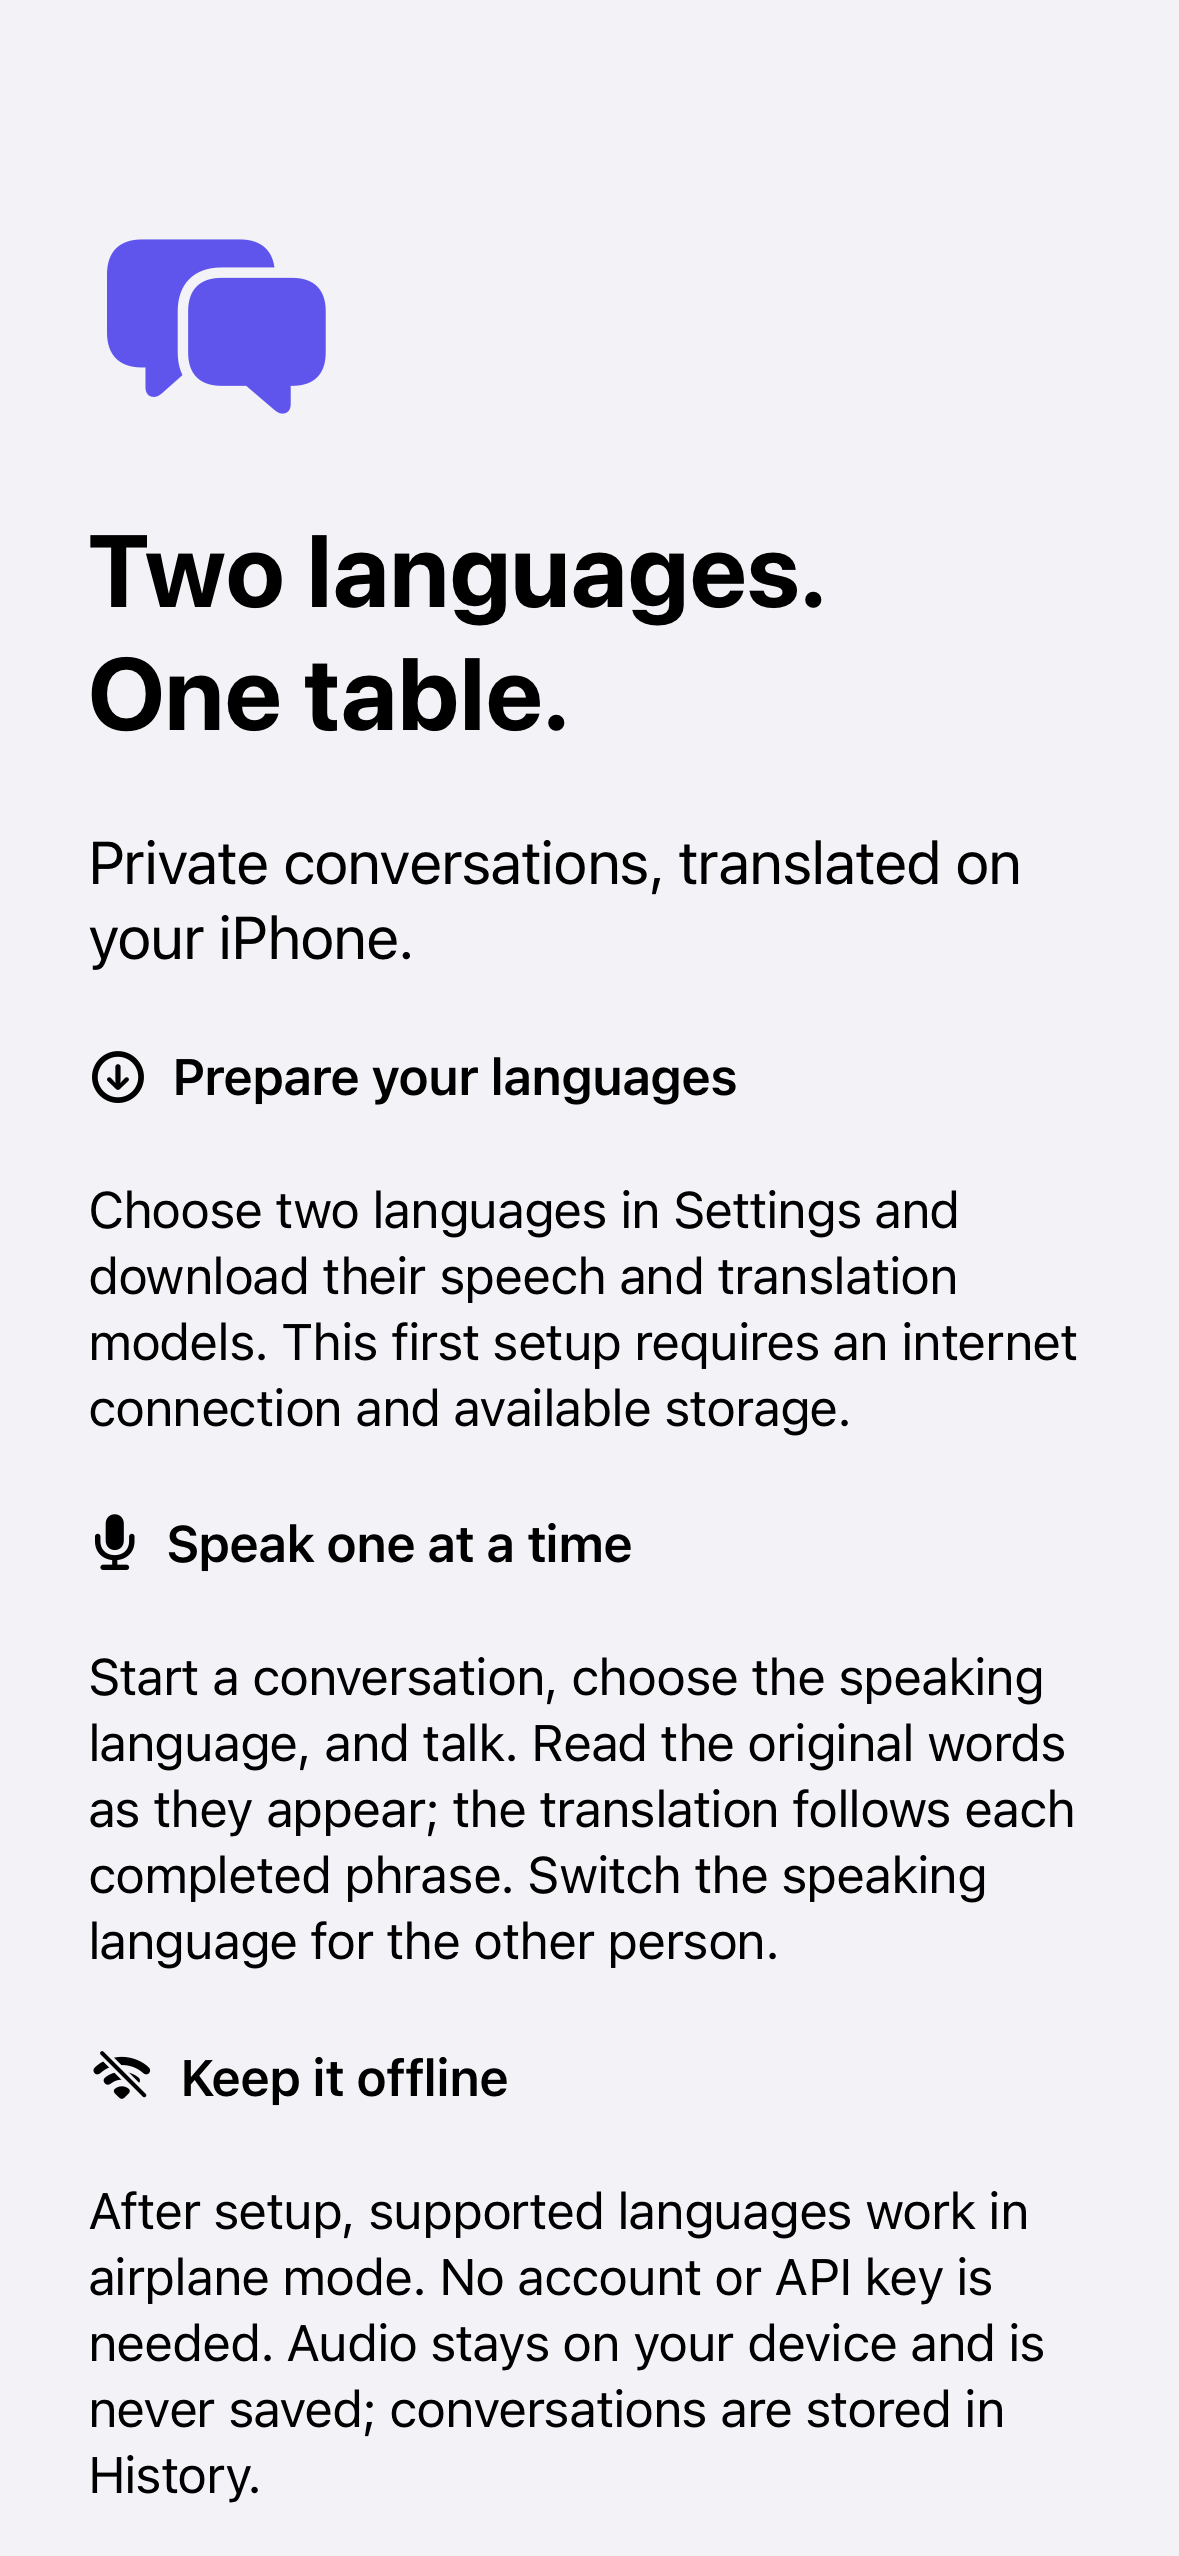
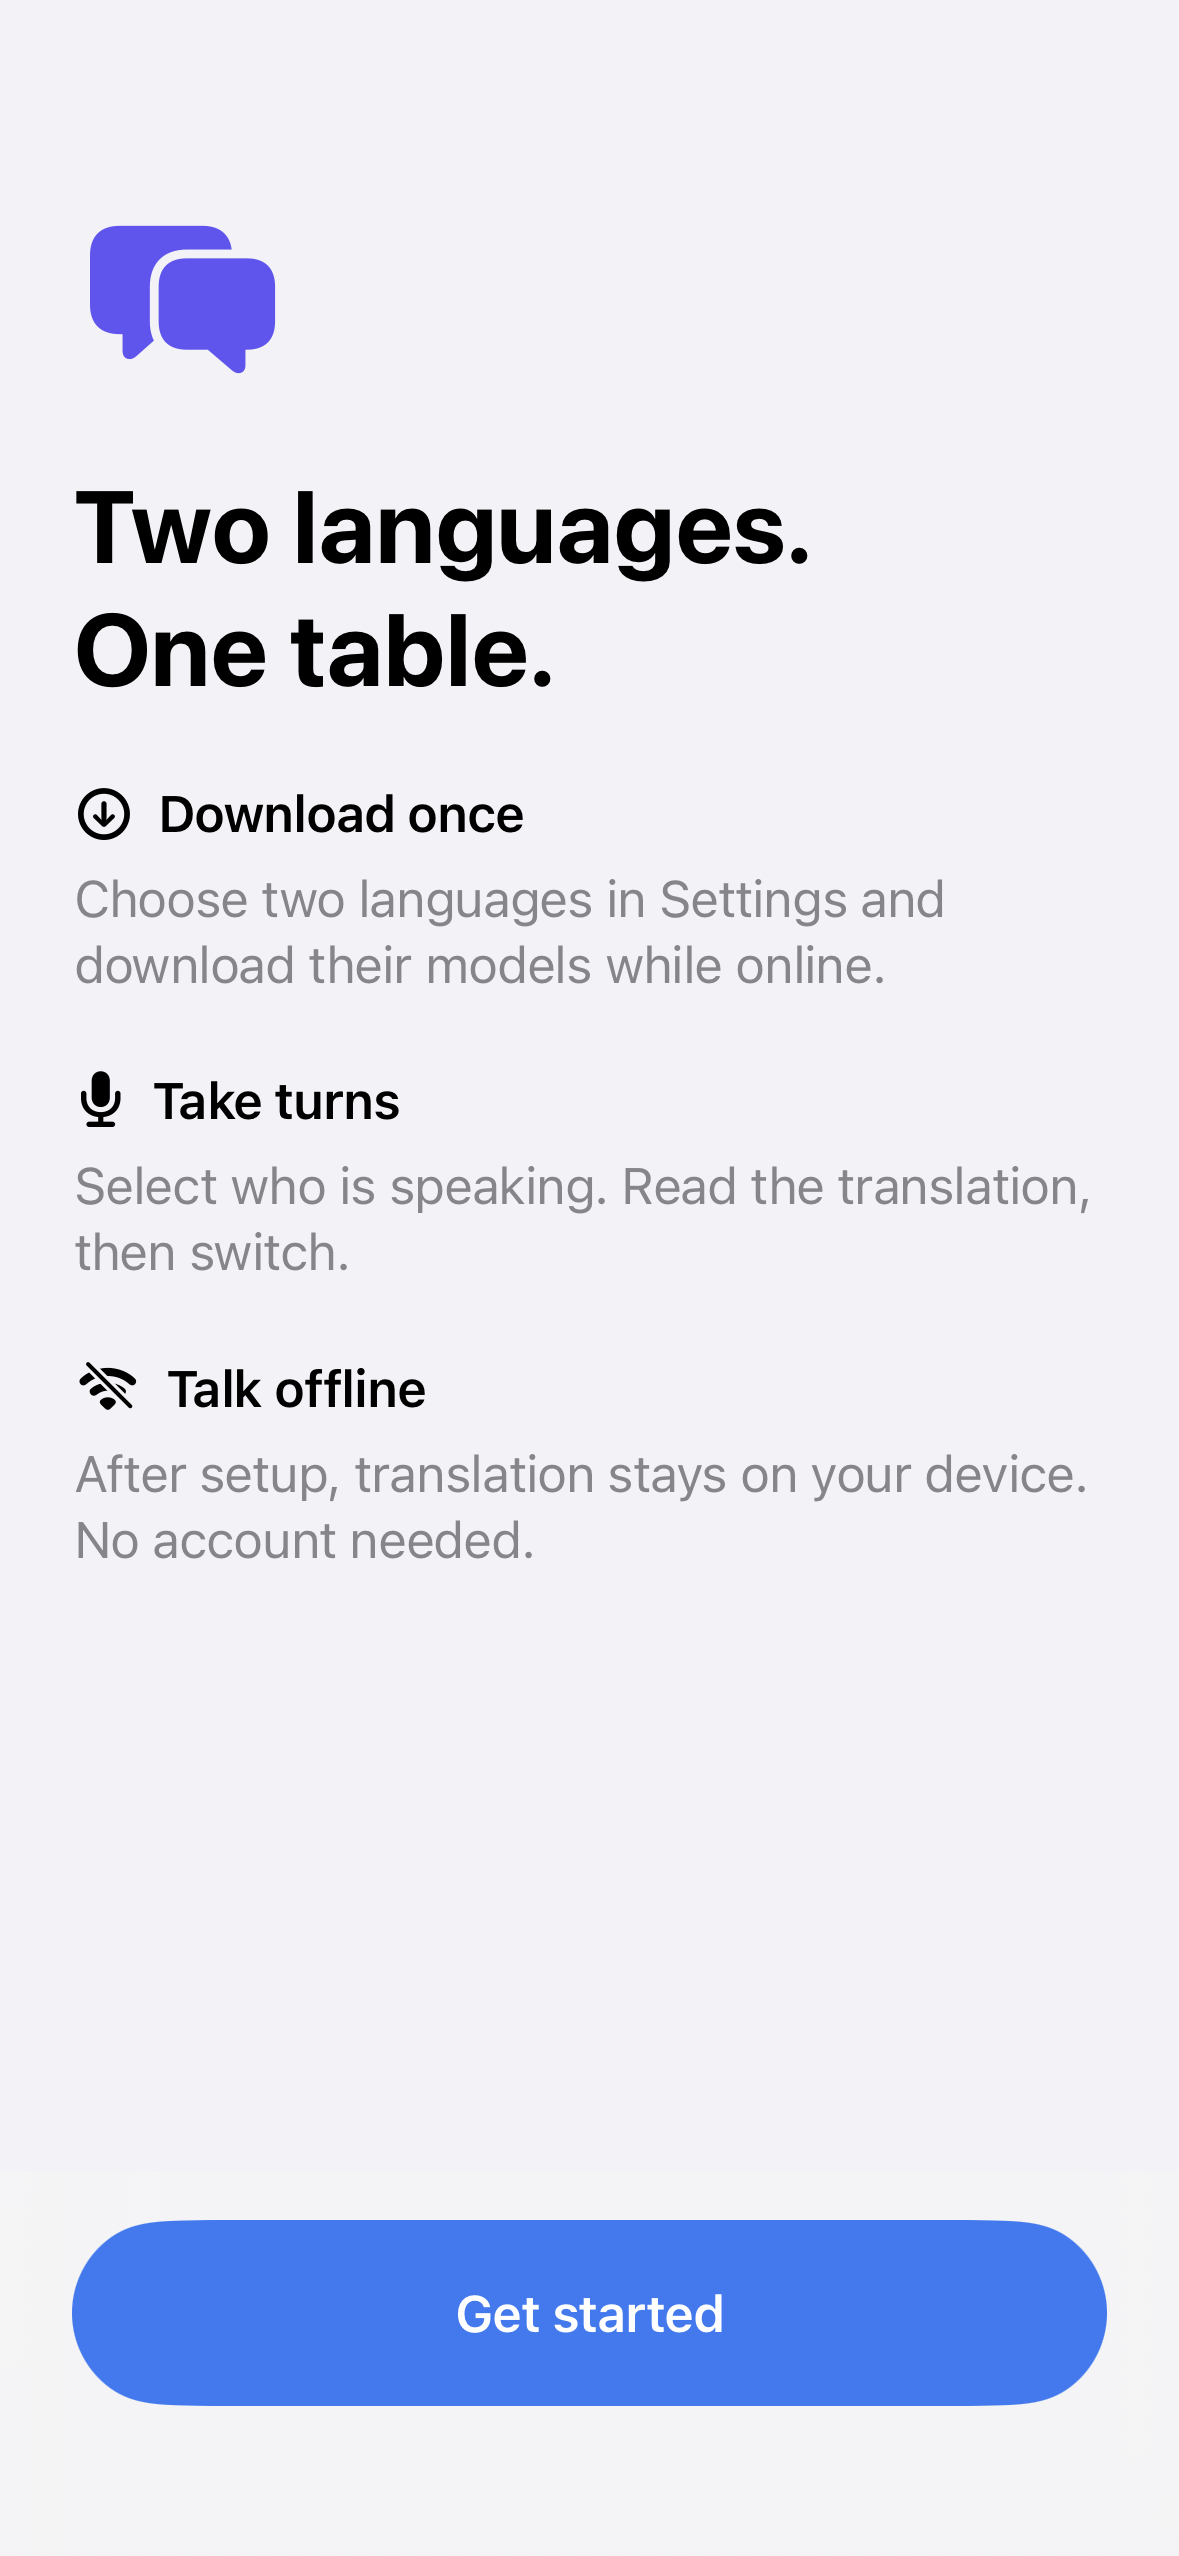
Keep onboarding action visible and simplify home controls

diff --git a/BabelTable/Views/OnboardingView.swift b/BabelTable/Views/OnboardingView.swift
@@ -3,29 +3,58 @@ import SwiftUI
 struct OnboardingView: View {
     @Environment(AppSettings.self) private var settings
     @Environment(\.dismiss) private var dismiss
+
     var body: some View {
         NavigationStack {
             ScrollView {
                 VStack(alignment: .leading, spacing: 24) {
-                    Image(systemName: "bubble.left.and.bubble.right.fill").font(.system(size: 52)).foregroundStyle(BabelTheme.primary)
-                    Text("Two languages. One table.").font(.largeTitle.bold())
-                    Text("Private conversations, translated on your iPhone.").font(.title3)
-                    Label("Prepare your languages", systemImage: "arrow.down.circle")
-                        .font(.headline)
-                    Text("Choose two languages in Settings and download their speech and translation models. This first setup requires an internet connection and available storage.")
-                    Label("Speak one at a time", systemImage: "mic.fill").font(.headline)
-                    Text("Start a conversation, choose the speaking language, and talk. Read the original words as they appear; the translation follows each completed phrase. Switch the speaking language for the other person.")
-                    Label("Keep it offline", systemImage: "wifi.slash").font(.headline)
-                    Text("After setup, supported languages work in airplane mode. No account or API key is needed. Audio stays on your device and is never saved; conversations are stored in History.")
-                    Button("Get started") {
-                        settings.hasCompletedOnboarding = true
-                        dismiss()
-                    }
-                    .buttonStyle(.borderedProminent).controlSize(.large)
+                    Image(systemName: "bubble.left.and.bubble.right.fill")
+                        .font(.system(size: 44))
+                        .foregroundStyle(BabelTheme.primary)
+                    Text("Two languages. One table.")
+                        .font(.largeTitle.bold())
+
+                    welcomeStep("Download once", systemImage: "arrow.down.circle",
+                                detail: "Choose two languages in Settings and download their models while online.")
+                    welcomeStep("Take turns", systemImage: "mic.fill",
+                                detail: "Select who is speaking. Read the translation, then switch.")
+                    welcomeStep("Talk offline", systemImage: "wifi.slash",
+                                detail: "After setup, translation stays on your device. No account needed.")
                 }
-                .padding(28).frame(maxWidth: 620).frame(maxWidth: .infinity)
+                .padding(24)
+                .frame(maxWidth: 620)
+                .frame(maxWidth: .infinity)
+            }
+            .safeAreaInset(edge: .bottom, spacing: 0) {
+                Button {
+                    settings.hasCompletedOnboarding = true
+                    dismiss()
+                } label: {
+                    Text("Get started")
+                        .font(.headline)
+                        .frame(maxWidth: .infinity, minHeight: 32)
+                }
+                .buttonStyle(.borderedProminent)
+                .controlSize(.large)
+                .accessibilityIdentifier("onboarding.getStarted")
+                .frame(maxWidth: 572)
+                .padding(.horizontal, 24)
+                .padding(.vertical, 16)
+                .frame(maxWidth: .infinity)
+                .background(.regularMaterial)
             }
             .background(BabelTheme.pageBackground)
+        }
+    }
+
+    private func welcomeStep(_ title: LocalizedStringKey, systemImage: String,
+                             detail: LocalizedStringKey) -> some View {
+        VStack(alignment: .leading, spacing: 8) {
+            Label(title, systemImage: systemImage)
+                .font(.headline)
+            Text(detail)
+                .foregroundStyle(.secondary)
+                .fixedSize(horizontal: false, vertical: true)
         }
     }
 }

diff --git a/BabelTable/Views/HomeView.swift b/BabelTable/Views/HomeView.swift
@@ -216,9 +216,6 @@ struct HomeView: View {
             Text(activityDescription)
                 .font(.caption).foregroundStyle(.secondary)
                 .fixedSize(horizontal: false, vertical: true)
-            if coordinator.status == .idle {
-                Button("Prepare offline languages") { showingSettings = true }.font(.caption)
-            }
         }
         .frame(maxWidth: isRegular ? 720 : .infinity)
         .padding(.horizontal, BabelTheme.pagePadding)
